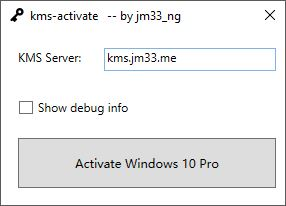
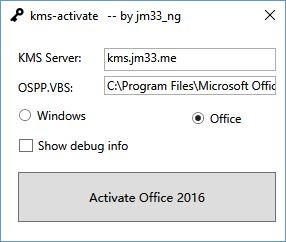
KMS is for office 2010 and above

diff --git a/win10-activate/MainWindow.xaml.cs b/win10-activate/MainWindow.xaml.cs
@@ -90,6 +90,9 @@ namespace kms_activate
                     MessageBox.Show("Activation failed!", "Failed!", MessageBoxButton.OK, MessageBoxImage.Error);
                     button.Content = "Retry";
                     button.IsEnabled = true;
+                    windows_option.IsEnabled = true;
+                    office_option.IsEnabled = true;
+                    CheckBox.IsEnabled = true;
                 });
             }
         }
@@ -297,12 +300,18 @@ namespace kms_activate
                 {
                     button.Content = "Done! Click to exit";
                     button.IsEnabled = true;
+                    windows_option.IsEnabled = true;
+                    office_option.IsEnabled = true;
+                    CheckBox.IsEnabled = true;
                 }
                 else
                 {
                     MessageBox.Show("Activation failed!", "Failed!", MessageBoxButton.OK, MessageBoxImage.Error);
                     button.Content = "Retry";
                     button.IsEnabled = true;
+                    windows_option.IsEnabled = true;
+                    office_option.IsEnabled = true;
+                    CheckBox.IsEnabled = true;
                 }
             });
         }
@@ -388,14 +397,10 @@ namespace kms_activate
                     officepath = officeBaseKey.OpenSubKey(@"14.0\Word\InstallRoot").GetValue("Path").ToString();
                     button.Content += "Office 2010";
                 }
-                else if (officeBaseKey.OpenSubKey(@"12.0", false) != null)
-                {
-                    officepath = officeBaseKey.OpenSubKey(@"12.0\Word\InstallRoot").GetValue("Path").ToString();
-                    button.Content += "Office 2007";
-                }
                 else
                 {
-                    MessageBox.Show("Could not read Office installation from registry", "Error detecting Office path", MessageBoxButton.OK, MessageBoxImage.Error);
+                    MessageBox.Show("Only works with Office 2010 and/or above", "Unsupported version", MessageBoxButton.OK, MessageBoxImage.Error);
+                    button.Content = "Unsupported version";
                     windows_option.IsChecked = true;
                     return;
                 }
